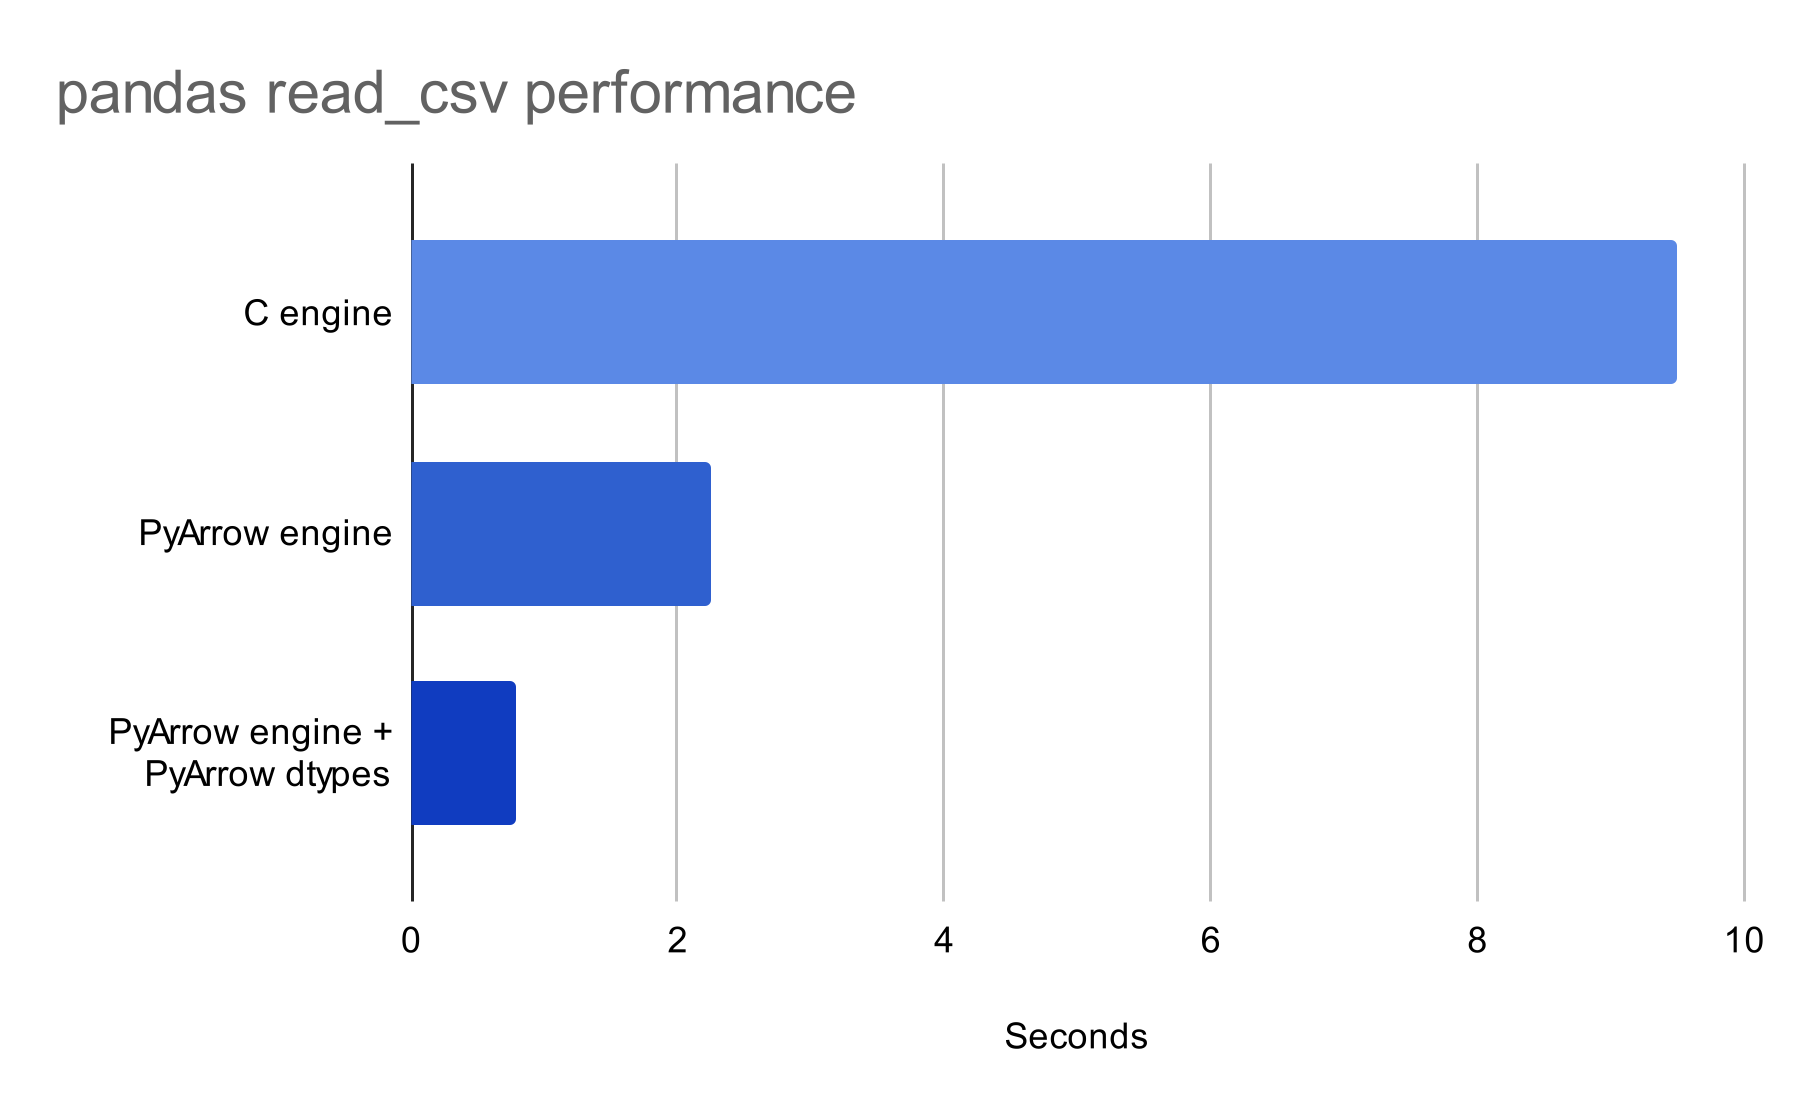
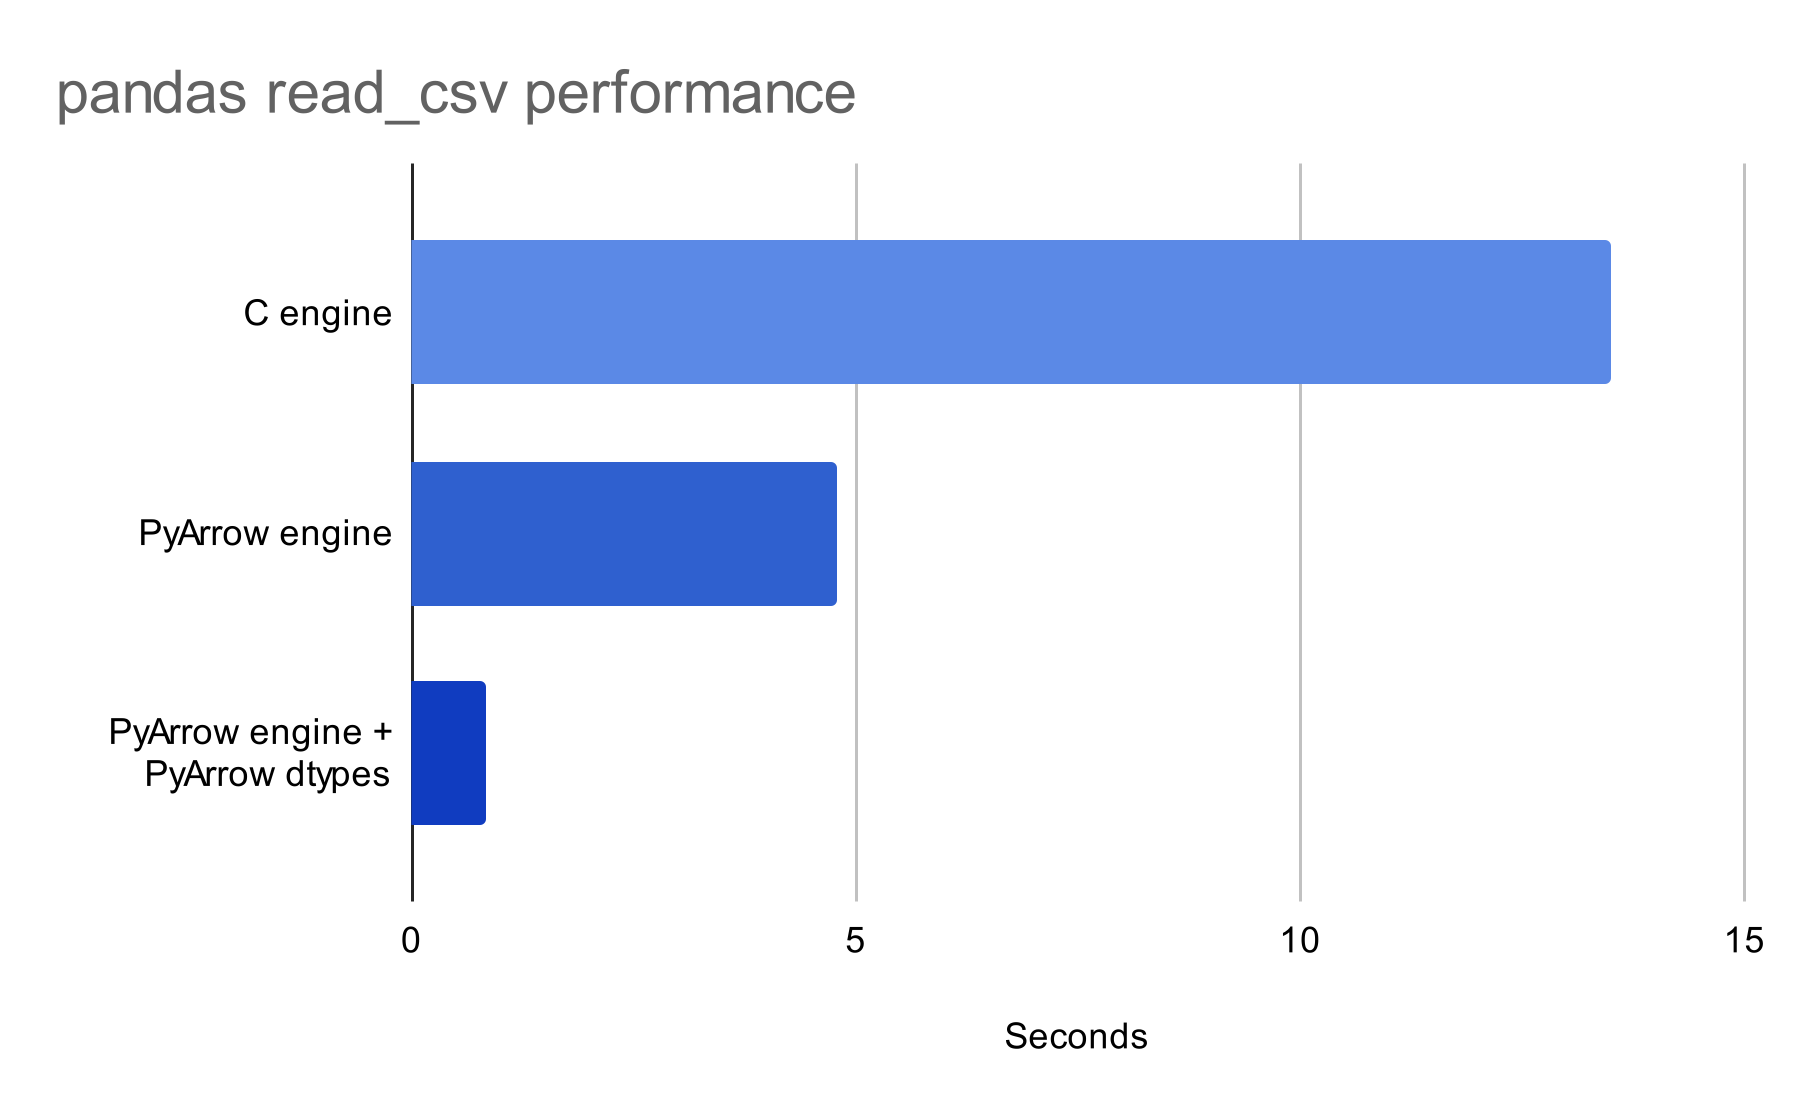
Update

diff --git a/content/posts/leveraging_arrow_backend.md b/content/posts/leveraging_arrow_backend.md
@@ -9,56 +9,58 @@ _Get the most out of PyArrow support in pandas and Dask right now_
 
 ## Introduction
 
+This post investigates where we can use PyArrow to improve our pandas and Dask workflows right now.
 General support for PyArrow dtypes was added with pandas 2.0 to [pandas](https://pandas.pydata.org) 
 and [Dask](https://www.dask.org?utm_source=phofl&utm_medium=pyarrow-in-pandas-and-dask). This solves a
 bunch of long-standing pains for users of both libraries. pandas users often complain to me that
-pandas does not support missing values in arbitrary dtypes or that support for non-standard dtypes
-is poor. A particularly undesirable problem for
-Dask users is running out of memory with exceedingly large datasetsRunning is mitigated in a big 
-way by PyArrow backed string columns which consume up to 70% less memory compared to NumPy object
-columns. We will get a huge performance improvement in a lot of areas on top of the problems 
-described here.
+pandas does not support missing values in arbitrary dtypes or that non-standard dtypes are not very
+well supported. A particularly annoying problem for
+Dask users is running out of memory with large datasets. PyArrow backed string columns 
+consume up to 70% less memory compared to NumPy object columns and thus have the potential to 
+mitigate this problem as well as providing a huge performance improvement.
 
 Support for PyArrow dtypes in pandas, and by extension Dask, is still relatively new. I would 
-still recommend caution when opting into the PyArrow ``dtype_backend``, since not every part of both 
-APIs is optimized yet. You should be able to get a big improvement with a bit of 
-awareness though. I will go through a bunch of examples where I'd recommend switching to PyArrow 
-right away. 
+recommend caution when opting into the PyArrow ``dtype_backend`` until at least pandas 2.1 is 
+released. Not every part of both APIs is optimized yet. You should be able to get a big improvement 
+in certain workflows though. This post will go over a couple of examples where I'd recommend switching to 
+PyArrow right away, because it already provides huge benefits. 
 
 Dask itself can benefit in various ways from PyArrow dtypes. We will investigate how PyArrow backed
-strings can easily mitigate the pain point of running out of memory on Dask clusters and whether we 
-can improve general and I/O performance through utilizing PyArrow.
+strings can easily mitigate the pain point of running out of memory on Dask clusters and how we 
+can improve performance through utilizing PyArrow.
 
 I am part of the pandas core team and was heavily involved in implementing and improving PyArrow 
-support in pandas. I've recently joined [Coiled](https://www.coiled.io?utm_source=phofl&utm_medium=pyarrow-in-pandas-and-dask) where I am working on Dask,
-including improving the PyArrow integration.
+support in pandas. I've recently joined 
+[Coiled](https://www.coiled.io?utm_source=phofl&utm_medium=pyarrow-in-pandas-and-dask) where I 
+am working on Dask. One of my tasks is improving the PyArrow integration.
 
 ## General overview of PyArrow support
 
-PyArrow dtypes were initially introduced in pandas 1.5. This means that support for them is
-still relatively new. pandas 2.0 provided a huge improvement, including making opting into them easy.
-There is still some work left to support them properly everywhere. They should be used with caution
-for a couple of months. Both projects work continuously to improve support throughout Dask and 
+PyArrow dtypes were initially introduced in pandas 1.5. The implementation was experimental and I
+wouldn't recommend using it on pandas 1.5.x. Support for them is still relatively new. 
+pandas 2.0 provides a huge improvement, including making opting into PyArrow backed DataFrames easy.
+We are still working on supporting them properly everywhere, and thus they should be used with caution
+until at least pandas 2.1 is released. Both projects work continuously to improve support throughout Dask and 
 pandas.
 
-We encourage users to try them out to get a better idea of what is still lacking support or not 
-efficient enough. Giving feedback helps us improve support and will drastically reduce the
-time that is necessary to find all issues and create a smooth user experience.
+We encourage users to try them out! This will help us to get a better idea of what is still lacking
+support or is not fast enough. Giving feedback helps us improve support and will drastically reduce the
+time that is necessary to create a smooth user experience.
 
 ## Dataset
 
-We will use the taxi dataset from New York City that provides all Uber and Lyft rides, including
+We will use the taxi dataset from New York City that contains all Uber and Lyft rides. It has
 some interesting attributes like price, tips, driver pay and many more. The dataset can be found
 [here](https://www.nyc.gov/site/tlc/about/tlc-trip-record-data.page) 
 (see [terms of service](https://www.nyc.gov/home/terms-of-use.page)) and is stored in parquet
 files. When analyzing Dask queries, we will use a publicly available S3 bucket to simplify our
 queries: ``s3://coiled-datasets/uber-lyft-tlc/``. We will use the dataset from December 2022 
 for our pandas queries, since this is the maximum that fits comfortably into memory on my 
-machine for our operations (24GB of RAM). Stressing our RAM usage might introduce side effects when 
-analyzing performance otherwise.
+machine (24GB of RAM). We have to avoid stressing our RAM usage, since this might introduce side 
+effects when analyzing performance.
 
-We will also investigate the performance of ``read_csv``. We will use the US accidents dataset
-that can be found [here](https://www.kaggle.com/datasets/sobhanmoosavi/us-accidents).
+We will also investigate the performance of ``read_csv``. We will use the _Crimes in Chicago_ dataset
+that can be found [here](https://www.kaggle.com/datasets/utkarshx27/crimes-2001-to-present).
 
 ## Dask cluster
 
@@ -79,37 +81,37 @@ cluster = coiled.Cluster(
 )
 ```
 
-Coiled is connected to my AWS account. It creates the cluster within my account and manages the
-resources for me. 30 machines are enough to comfortably operate on our dataset. We will investigate
-how we can reduce the required number of workers to 15 instead of 30 through some small 
-modifications in this blog post.
+Coiled is connected to my AWS account. It creates the cluster within my account and manages all
+resources for me. 30 machines are enough to operate on our dataset comfortably. We will investigate
+how we can reduce the required number of workers to 15 through some small 
+modifications.
 
 ## pandas StringDtype backed by PyArrow
 
-We begin with a feature that was originally introduced in pandas 1.0 and has been around for quite
-some time. The ``StringDtype`` is relatively mature and can be used without expecting any problems. 
+We begin with a feature that was originally introduced over 3 years ago in pandas 1.0. Setting the
+dtype in pandas or Dask to ``string`` returns an object with ``StringDtype``. This feature is relatively mature and should
+provide a smooth user experience.
 
 Historically, pandas represented string data through NumPy arrays with dtype ``object``. NumPy object data is stored as an 
-array of pointers that point to the actual data in memory. This makes iterating over an array of 
-strings very slow. pandas 1.0 intially introduced a
-string dtype that allowed easier operations on strings. This dtype was still backed by Python 
+array of pointers pointing to the actual data in memory. This makes iterating over an array containing 
+strings very slow. pandas 1.0 initially introduced said
+``StringDtype`` that allowed easier and consistent operations on strings. This dtype was still backed by Python 
 strings and thus, wasn't very performant either. Rather, it provided a clear abstraction of string
 data.
 
-pandas 1.3 finally introduced an efficient string dtype. This datatype is backed by PyArrow strings.
+pandas 1.3 finally introduced an enhancement to create an efficient string dtype. This datatype is backed by PyArrow arrays.
 [PyArrow](https://arrow.apache.org/docs/python/index.html) provides a data structure that enables 
 performant and memory efficient string operations.
 Starting from that point on, users could use a string dtype that was contiguous in memory and thus
-very fast. This dtype can be requested through ``string[pyarrow]``. Alternatively, you can request it
+very fast. This dtype can be requested through ``string[pyarrow]``. Alternatively, we can request it
 by specifying ``string`` as the dtype and setting:
 
 ````python
 pd.options.mode.string_storage = "pyarrow"
 ````
 
-Since Dask builds on top of pandas, this string dtype
-is available as well. On top of that, Dask offers a convenient option 
-that automatically converts all string-data to ``string[pyarrow]``.
+Since Dask builds on top of pandas, this string dtype is available here as well. On top of that, 
+Dask offers a convenient option that automatically converts all string-data to ``string[pyarrow]``.
 
 ```python
 dask.config.set({"dataframe.convert-string": True})
@@ -117,11 +119,12 @@ dask.config.set({"dataframe.convert-string": True})
 
 This is a convenient way of
 avoiding NumPy object dtype for string columns. Additionally, it has the advantage that it
-creates PyArrow arrays natively, if the I/O method provides Arrow objects directly. Memory usage is
-the biggest pain point for Dask users.
+creates PyArrow arrays natively for I/O methods that operate with Arrow objects. 
 On top of providing huge performance improvements, PyArrow strings consume significantly less
 memory. An average Dask DataFrame with PyArrow strings consumes around 33-50% of the original
-memory compared to NumPy object. PyArrow backed strings are mature enough to provide a smooth user
+memory compared to NumPy object. This solves the biggest pain point for Dask users that is running
+out of memory when operating on large datasets. The option enables global testing in Dask's test
+suite. This ensures that PyArrow backed strings are mature enough to provide a smooth user
 experience.
 
 Let's look at a few operations that represent typical string operations. We will start with a couple
@@ -172,11 +175,12 @@ df[df["dispatching_base_num"].str.startswith("B028")]
 
 ``startswith`` iterates over our array and checks whether every string starts with the specified
 substring. The advantage of PyArrow is easy to see. The data are contiguous in memory, which means
-that we can iterate very fast over them. Additionally, these arrays have a second array with 
-pointers that point to the first memory address of every string.
+that we can efficiently iterate over them. Additionally, these arrays have a second array with 
+pointers that point to the first memory address of every string, which makes computing the starting
+sequence even faster.
 
 Finally, we look at a ``GroupBy`` operation that groups over PyArrow string columns. The calculation
-of the grouping columns can dispatch to PyArrow as well, which is more efficient than factorizing
+of the groups can dispatch to PyArrow as well, which is more efficient than factorizing
 over a NumPy object array.
 
 ```python
@@ -185,16 +189,17 @@ df.groupby(
 ).mean(numeric_only=True)
 ```
 
-Let's look at how these operations stack up against DataFrames with NumPy object arrays.
+Let's look at how these operations stack up against DataFrames where string columns are represented
+by NumPy object dtype.
 
 ![](.././images/arrow_backend/pandas_string_performance_comparison.svg)
 
 The results are more or less as we expected. The string based comparisons are significantly faster
 when performed on PyArrow strings. Most string accessors should provide a huge performance 
 improvement. Another interesting observation is memory usage, it is reduced by roughly 50% compared
-to NumPy object dtype, but we will take a closer look at this with Dask.
+to NumPy object dtype. We will take a closer look at this with Dask.
 
-Dask mirrors the pandas API and dispatches for most operations. Consequently, we can use
+Dask mirrors the pandas API and dispatches to pandas for most operations. Consequently, we can use
 the same API to access PyArrow strings. A convenient option to request these globally is the option
 mentioned above, which is what we will use here:
 
@@ -222,14 +227,14 @@ df = df.persist()
 wait(df)  # Wait till the computation is finished
 ```
 
-We persist the data in memory so that we don't skew our performance measurements. Our data is now
-available in memory, which makes access fast. We will perform similar computations than we did
-previously with pandas. One of the main goals is to show that the benefits from pandas will 
+We persist the data in memory so that I/O performance does not influence our performance measurements. Our data is now
+available in memory, which makes access fast. We will perform computations that are similar to our
+pandas computations. One of the main goals is to show that the benefits from pandas will 
 translate to computations in a distributed environment with Dask.
 
 One of the first observations is that the DataFrame with PyArrow backed string columns consumes only
-130GB of memory, only half of what it consumes with NumPy object columns. We have only a few string
-columns in our DataFrame, which means that the memory savings are actually higher than around 50%
+130GB of memory, only half of what it consumed with NumPy object columns. We have only a few string
+columns in our DataFrame, which means that the memory savings for string columns are actually higher than around 50%
 when switching to PyArrow strings. Consequently, we will reduce the size of our cluster to 15 workers
 when performing our operations on PyArrow string columns.
 
@@ -252,7 +257,7 @@ pandas to Dask relatively easy.
 
 Additionally, we will again compute a ``GroupBy`` operation on our data. This is significantly harder
 in a distributed environment, which makes the results more interesting. The previous operations
-parallelize relatively easy onto a large cluster, while this gets harder with ``GroupBy``.
+parallelize relatively easy onto a large cluster, while this is harder with ``GroupBy``.
 
 ```python
 df = df.groupby(
@@ -269,29 +274,29 @@ We get nice improvements by factors of 2 and 3. This is especially intriguing si
 the size of our cluster from 30 machines to 15, reducing the cost by 50%. Subsequently, we also reduced our computational 
 resources by a factor of 2, which makes our performance improvement even more impressive. Thus,
 the performance improved by a factor of 4 and 6 respectively. We can
-perform the same computations on a smaller cluster, which saves money and is more efficient in general
+perform the same computations on a smaller cluster, which saves money and is more efficient in general,
 and still get a performance boost out of it.
 
-Summarizing, we saw that PyArrow string-columns are a huge improvement to NumPy object columns in
+Summarizing, we saw that PyArrow string-columns are a huge improvement when comparing them to NumPy object columns in
 DataFrames. Switching to PyArrow strings is a relatively small change that might improve the 
-performance and efficiency of an average workflow that depends on string data. These improvements 
-are visible in pandas and Dask!
+performance and efficiency of an average workflow that depends on string data immensely. These improvements 
+are equally visible in pandas and Dask!
 
 ## Engine keyword in I/O methods
 
 We will now take a look at I/O functions in pandas and Dask. Some functions have custom implementations, 
-like ``read_csv``, while others dispatch to another library, like ``read_excel`` does to 
+like ``read_csv``, while others dispatch to another library, like ``read_excel`` to 
 ``openpyxl``. Some of these functions gained a new ``engine`` keyword that enables us to dispatch to 
 ``PyArrow``. The PyArrow parsers are multithreaded by default and hence, can provide a significant 
 performance improvement.
 
 ```python
-pd.read_csv("US_Accidents_Dec21_updated.csv", engine="pyarrow")
+pd.read_csv("Crimes_-_2001_to_Present.csv", engine="pyarrow")
 ```
 
 This configuration will return the same results as the other engines. The only difference is that
 PyArrow is used to read the data. The same option is available for ``read_json``.
-The engines were added to provide a faster way of reading data. The improved speed is only
+The PyArrow-engines were added to provide a faster way of reading data. The improved speed is only
 one of the advantages. The PyArrow parsers return the data as a 
 [PyArrow Table](https://arrow.apache.org/docs/python/generated/pyarrow.Table.html). A PyArrow Table
 provides built-in functionality to convert to a pandas ``DataFrame``. Depending on the data, this
@@ -303,7 +308,7 @@ As a direct consequence, the conversion from a PyArrow Table to pandas is extrem
 does not require any copies. 
 
 ```python
-pd.read_csv("US_Accidents_Dec21_updated.csv", engine="pyarrow", dtype_backend="pyarrow")
+pd.read_csv("Crimes_-_2001_to_Present.csv", engine="pyarrow", dtype_backend="pyarrow")
 ```
 
 This returns a ``DataFrame`` that is backed by PyArrow arrays. pandas isn't optimized everywhere
@@ -312,14 +317,13 @@ the workload is particularly I/O heavy. Let's look at a direct comparison:
 
 ![](./../images/arrow_backend/pandas_read_csv_performance.svg)
 
-We can see that PyArrow-engine and PyArrow dtypes provide a 10x speedup compared
+We can see that PyArrow-engine and PyArrow dtypes provide a 15x speedup compared
 to the C-engine.
 
 The same advantages apply to Dask. Dask wraps the pandas csv reader and
 hence, gets the same features for free.
 
-The comparison is a bit more complicated
-here though. Firstly, my example reads the data from my local machine while
+The comparison for Dask is a bit more complicated. Firstly, my example reads the data from my local machine while
 our Dask examples will read the data from a S3 bucket. Network speed will
 be a relevant component. Also, distributed computations have some
 overhead that we have to account for. 
@@ -332,7 +336,7 @@ import dask.dataframe as dd
 from distributed import wait
 
 df = dd.read_csv(
-    "s3://coiled-datasets/timeseries/20-years/csv/0001.part",
+    "s3://coiled-datasets/timeseries/20-years/csv/",
     storage_options={"anon": True},
     engine="pyarrow",
     parse_dates=["timestamp"],
@@ -342,14 +346,12 @@ wait(df)
 ```
 
 We will execute this code-snippet for ``engine="c"``, ``engine="pyarrow"`` and additionally
-``engine="pyarrow"`` with ``"dtype_backend="pyarrow"``. Let's look at some performance comparisons.
-Both examples were executed with 30 machines on the cluster. We want to be explicit when inferring
-dtypes in this case, our column ``timestamp`` is a ``datetime`` column, which is why we specified
-this explicitly.
+``engine="pyarrow"`` with ``dtype_backend="pyarrow"``. Let's look at some performance comparisons.
+Both examples were executed with 30 machines on the cluster.
 
 ![](./../images/arrow_backend/Dask_read_csv_performance.svg)
 
-The PyArrow-engine runs around 2 times faster than the C-engine. Both implementations used the same
+The PyArrow-engine runs around 2 times as fast as the C-engine. Both implementations used the same
 number of machines. The memory usage was reduced by 50% with the PyArrow ``dtype_backend``. The same
 reduction is available if only object columns are converted to PyArrow strings, which gives
 a better experience in follow-up operations.
@@ -367,9 +369,10 @@ time reading the data.
 
 Some other I/O methods have an engine keyword as well. ``read_parquet`` is the most popular 
 example. The situation is a bit different here though. These I/O methods were already using the
-PyArrow engine by default. So the parsing is already as efficient as possible. One other potential
-performance benefit is the usage of the ``dtype_backend``. Setting it to ``"pyarrow"`` avoids 
-the conversion to NumPy dtypes when converting the PyArrow Table to a pandas DataFrame. This gives 
+PyArrow engine by default. So the parsing is as efficient as possible. One other potential
+performance benefit is the usage of the ``dtype_backend`` keyword. Normally, PyArrow will return
+a PyArrow table which is then converted to a pandas DataFrame. The PyArrow dtypes are converted to
+their NumPy equivalent. Setting ``dtype_backend="pyarrow"`` avoids this conversion. This gives 
 a decent performance improvement and saves a lot of memory.
 
 Let's look at one pandas performance comparison. We read the Uber-Lyft taxi data from December 2022.
@@ -406,7 +409,7 @@ wait(df)
 ```
 
 We read the dataset in 3 different configurations. First with the default NumPy dtypes, then with
-the PyArrow string options turned on:
+the PyArrow string option turned on:
 
 ```python
 dask.config.set({"dataframe.convert-string": True})
@@ -417,8 +420,8 @@ And lastly with ``dtype_backend="pyarrow"``. Let's look at what this means perfo
 ![](../images/arrow_backend/Dask_read_parquet_performance.svg)
 
 Similar to our pandas example, we can see that converting to NumPy dtypes takes up a huge chunk of
-our runtime. The PyArrow dtypes give us a nice performance improvement. Memory usage is half of what
-NumPy dtypes consume. Both PyArrow configurations consume roughly the same amount of memory. 
+our runtime. The PyArrow dtypes give us a nice performance improvement. Both PyArrow configurations
+use half of the memory that the NumPy dtypes are using.
 
 PyArrow-strings are a lot more mature than the general PyArrow ``dtype_backend``. Based on the 
 performance chart we got, we get roughly the same performance improvement when using PyArrow 
